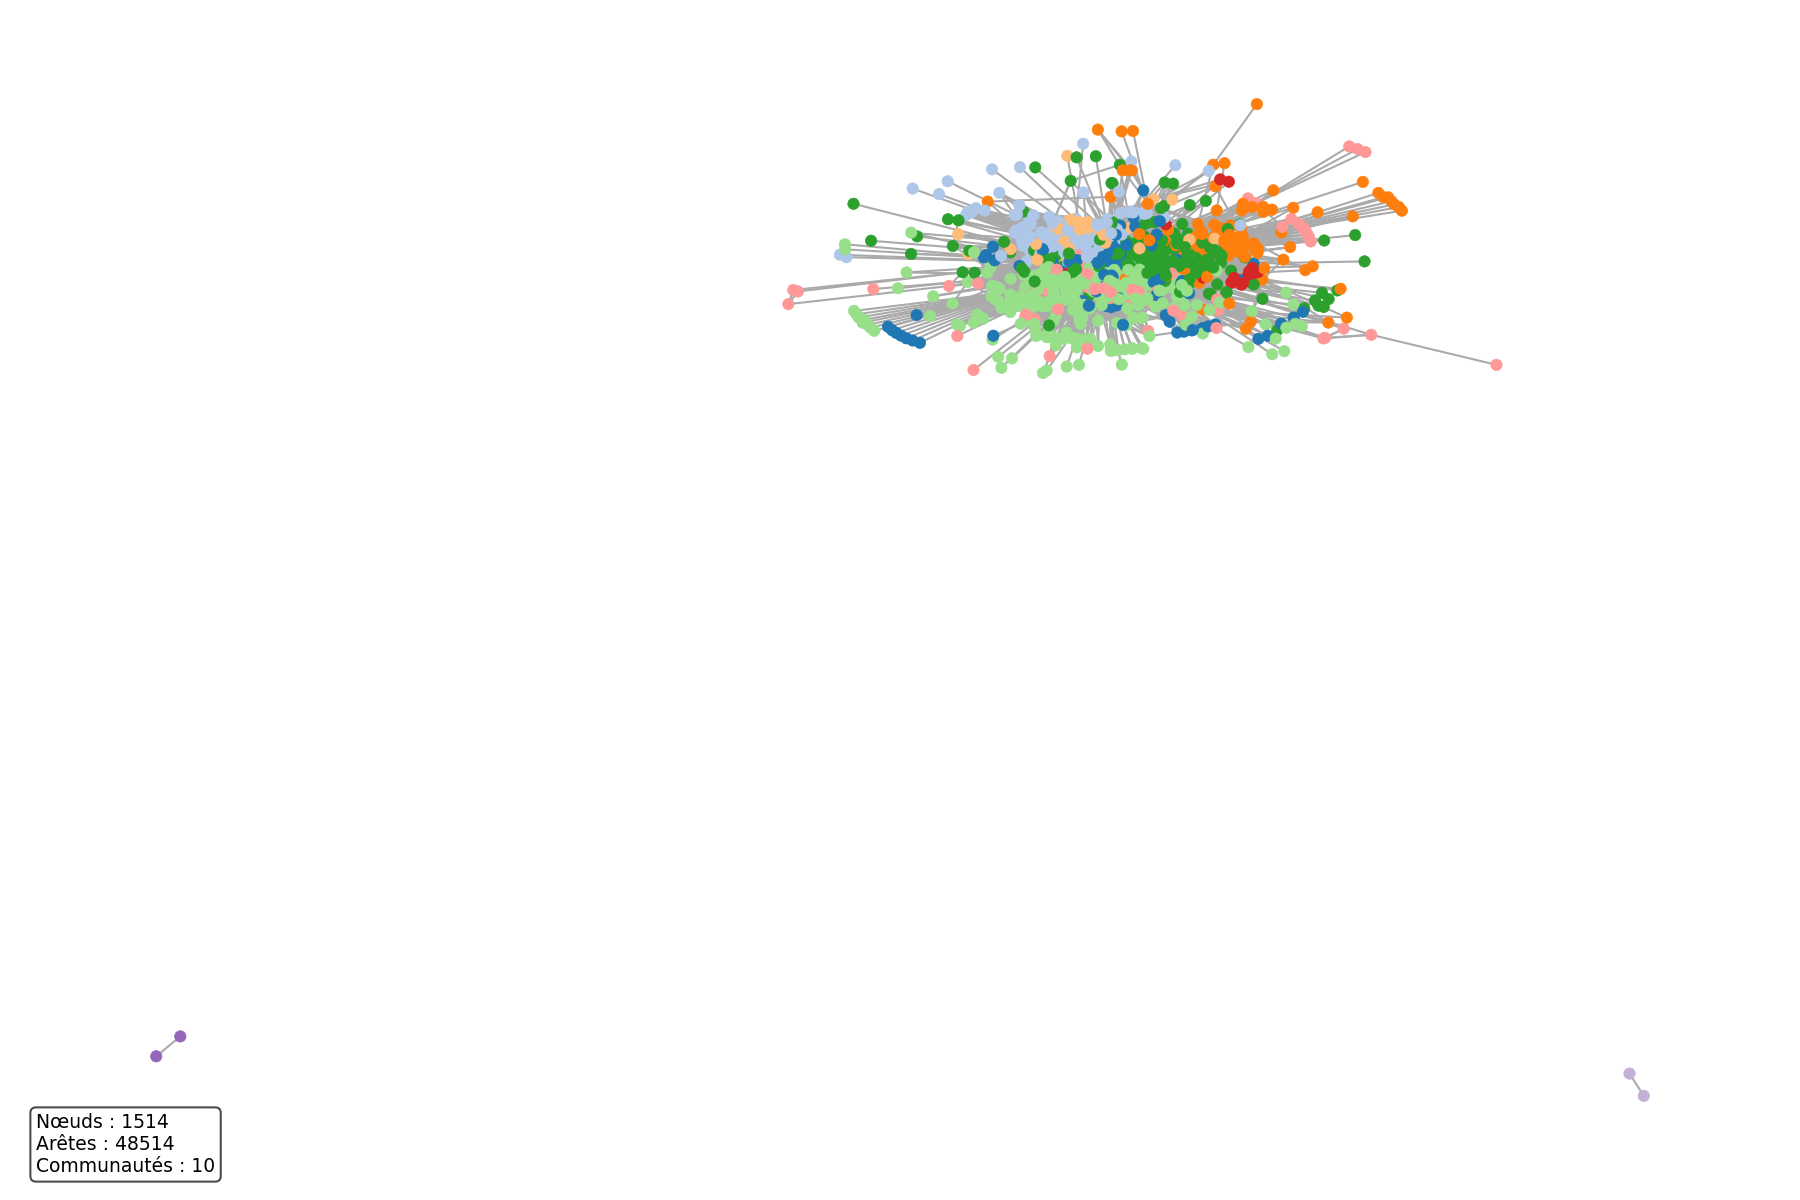
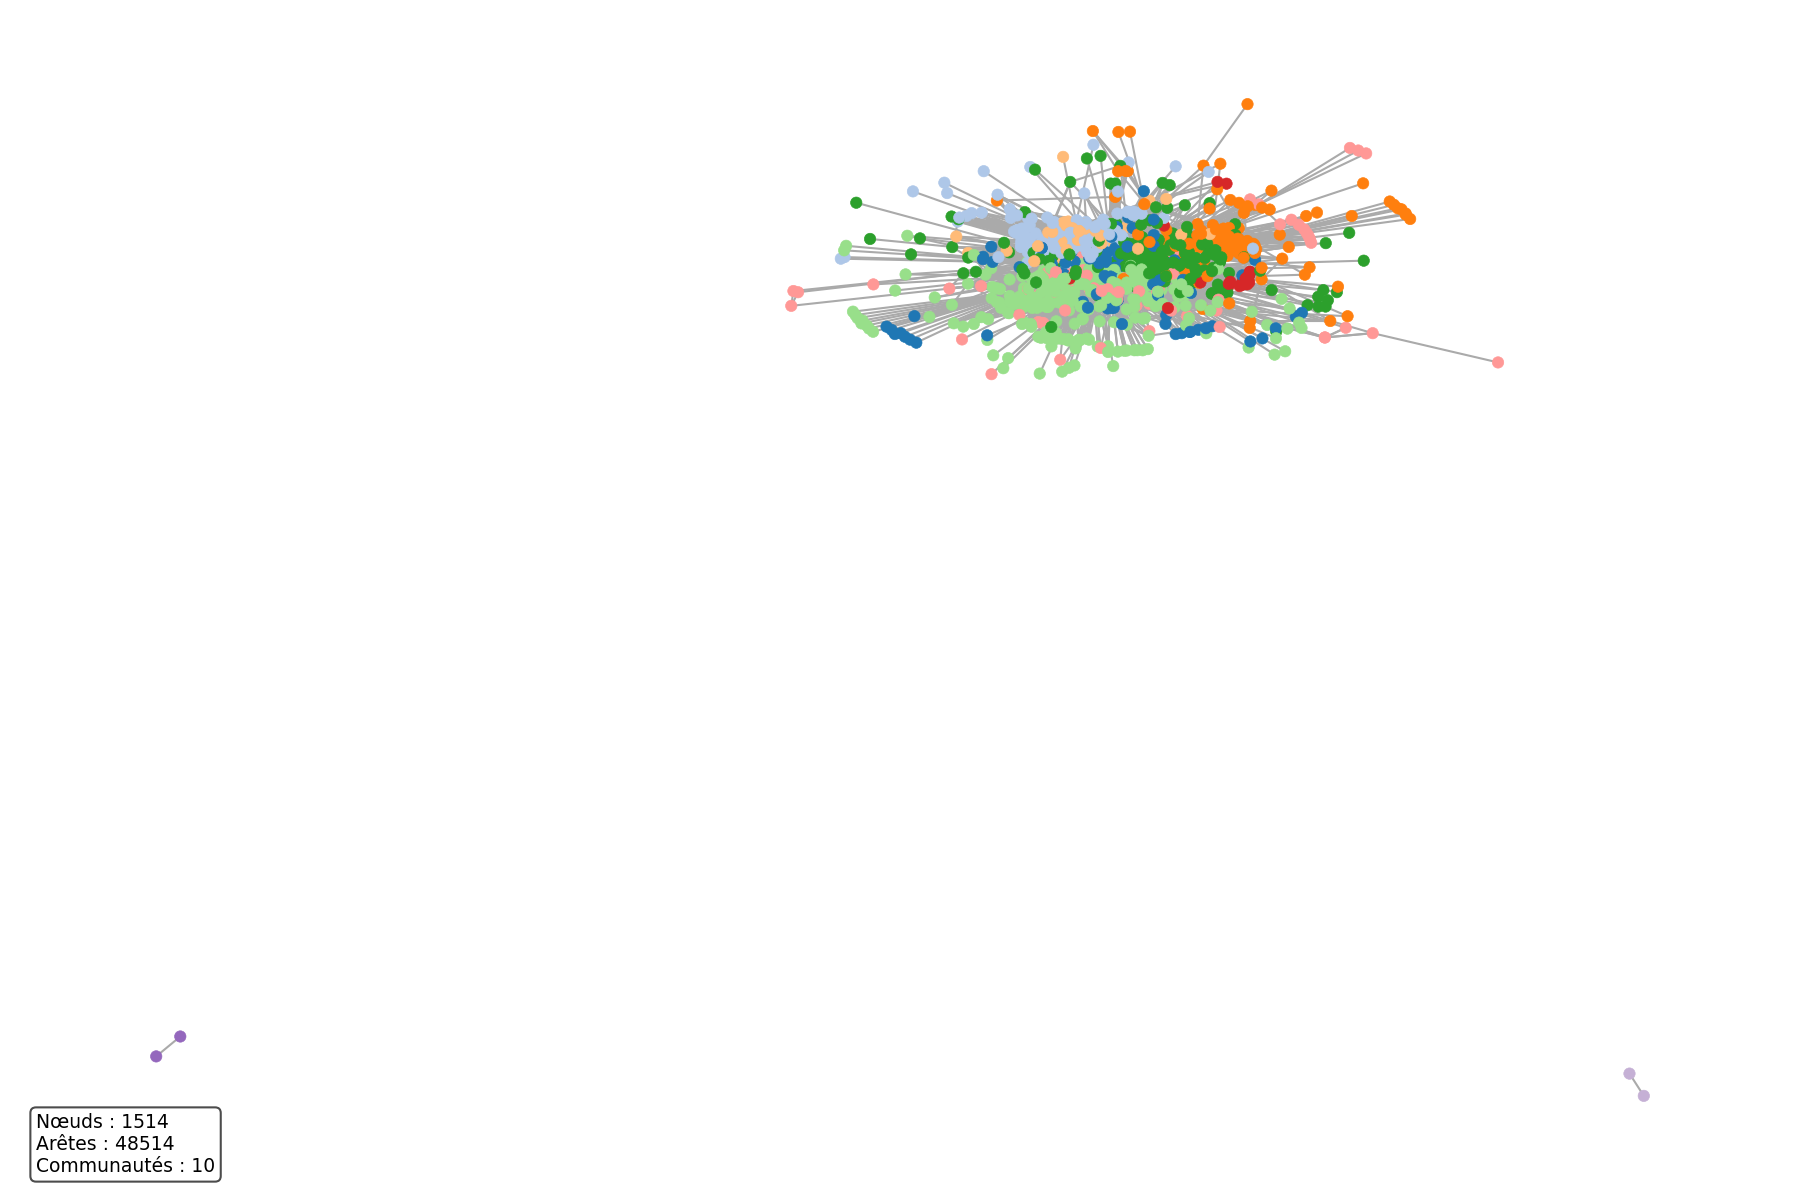
sigma

Changed region(s): [[0.4356, 0.0925, 0.7778, 0.3083], [0.7778, 0.2775, 0.84, 0.3083], [0.6844, 0.0617, 0.7156, 0.0925]]

diff --git a/loader.c b/loader.c
@@ -308,9 +308,15 @@ int main(int argc, char *argv[]) {
 
     // Calcul de sigma_in = sommes des tous les poids des arêtes internes (cad juste les arêtes entre noeuds de la communauté)
     double *sigma_in = malloc(sizeof(double) * nb_noeuds);
-    for (int i = 0; i < nb_noeuds; i++ ){
-        // Pour chaque communauté (noeuds au départ) initialement sigma_in[i] = 0 
+    for (int i = 0; i < nb_noeuds; i++ ) {
         sigma_in[i] = 0;
+        Voisin *courant = G->Tableau_Voisins[i];
+        while (courant != NULL) {
+            if (courant->id == i) { 
+                sigma_in[i] += courant->poids;
+            }
+            courant = courant->suivant;
+        }
     }
 
     // Calcul de sigma_tot = sommes des tous les poids des arêtes internes + incidente aux noeuds de la communauté courante
@@ -537,10 +543,18 @@ int main(int argc, char *argv[]) {
         }
 
         sigma_in = malloc(sizeof(double) * nb_noeuds);
-        for (int i = 0; i < nb_noeuds; i++ ){
-            // Pour chaque communauté (noeuds au départ) initialement sigma_in[i] = 0 
-            sigma_in[i] = 0;
+        for (int i = 0; i < nb_noeuds; i++ ) {
+            sigma_in[i] = 0; 
+            
+            // On parcourt les voisins pour voir s'il y a une boucle sur soi-même
+            Voisin *courant = G->Tableau_Voisins[i];
+            while (courant != NULL) {
+                if (courant->id == i) { // Si le voisin est le nœud lui-même (self-loop)
+                    sigma_in[i] += courant->poids;
+                }
+                courant = courant->suivant;
             }
+        }
 
         
         // Calcul de sigma_tot = sommes des tous les poids des arêtes internes + incidente aux noeuds de la communauté courante
